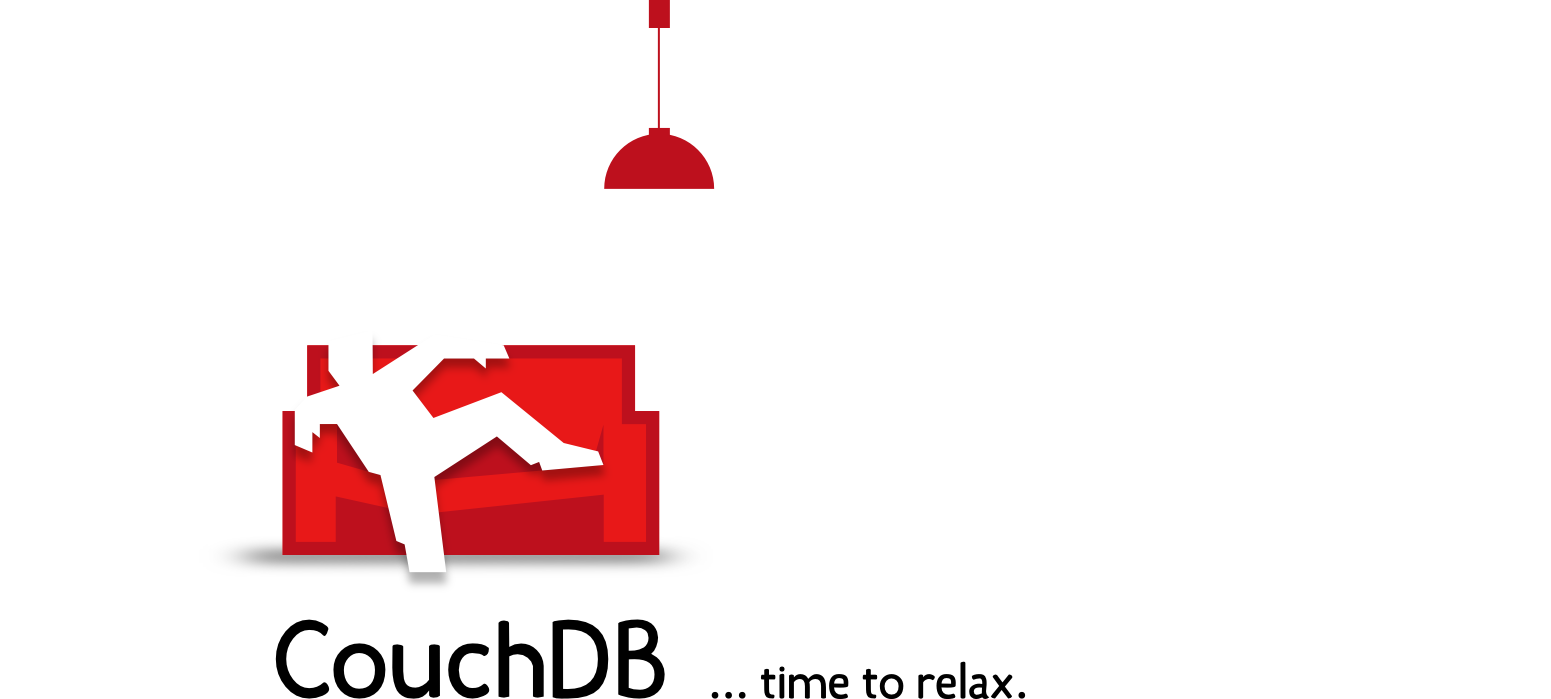
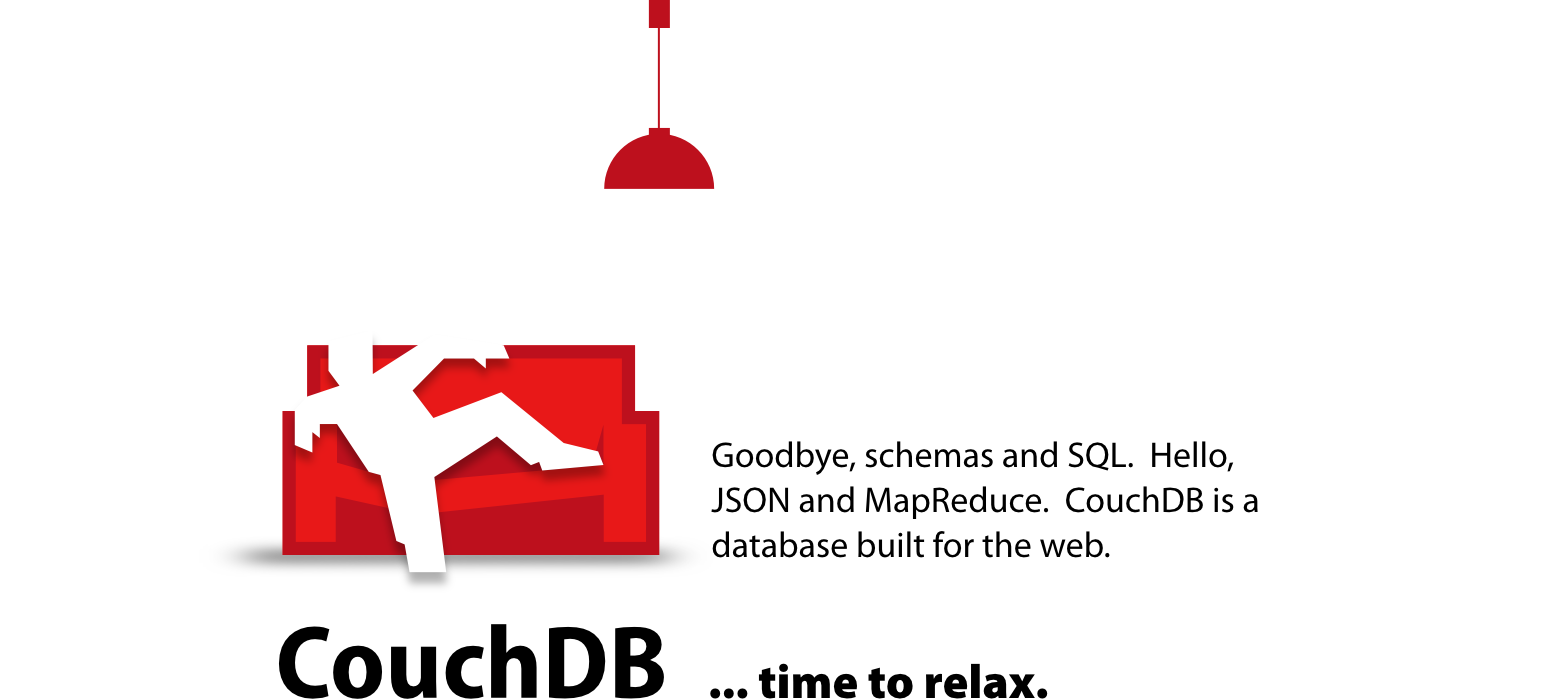
Added subtle fade backdrop.  Candela dropped in favour of rasterized Myriad, plus Arial webfont.  (Note: Myriad Bold should be replaced with Semibold; Inkscape doesn't play nice with my warez copy of Myriad.)

Changed region(s): [[0.4642, 0.6309, 0.8046, 0.8112], [0.1547, 0.8712, 0.4333, 1.0], [0.4642, 0.9313, 0.6809, 1.0]]

diff --git a/css/site.css b/css/site.css
@@ -1,7 +1,7 @@
 header, footer, nav, article, section, aside { display: block; }
 body {
   margin: 0; 
-  background-color: #9fd6d6; 
+  background-color: #ace8e8; 
   background-image: url("fade.png");
   background-repeat: repeat-x;
   font-size: 14px;
@@ -16,7 +16,7 @@ div#topslice {
   padding-bottom: 55px;
   }
 h1,h2,h3,h4,h5,h6 {
-  font-family: CandelaBook, Arial, sans-serif;
+  font-family: Myriad, "Myriad Pro", Arial, sans-serif; /* CandelaBook; */
   text-shadow: white 1px 1px 1px;
   }
 h3 { font-size: 20px; }
@@ -31,7 +31,7 @@ header blockquote {
   color: #506b6b;
   }
 header nav {
-  font-family: CandelaBold;
+  font-family: Myriad, "Myriad Pro", Arial, sans-serif; /* CandelaBold; */
   width: 480px;
   float: right;
   color: #506b6b;
@@ -51,11 +51,12 @@ header nav div ul {
 header nav a.active { border-bottom: 1px dotted black; } /* I don't like this */
 header nav div:hover > h3 { position: relative; top: -2px; text-shadow: white 1px 3px 1px; }
 header div#intro {
+  display: none;
   width: 555px;
   padding-left: 432px;
   padding-top: 404px;
   right: 0px;
-  font-family: CandelaBold, Arial, sans-serif;
+  font-family: Myriad, "Myriad Pro", Arial, sans-serif; /* CandelaBold; */
   font-size: 32px;
   line-height: 48px;
   }
@@ -66,7 +67,7 @@ div.colwrapper { width: 100%; overflow: auto; }
 div#filling {
   border: solid #91bcbc;
   border-width: 1px 0 1px 0;
-  background-color: #ace8e8; 
+  background-color: #c0eeee; 
   padding: 55px 0 55px 0;
   }
 div#filling div.colwrapper aside { 
@@ -81,7 +82,7 @@ div#bottomslice {
   }
 
 footer {
-  font-family: CandelaBook, Arial, sans-serif;
+  font-family: Myriad, "Myriad Pro", Arial, sans-serif; /* CandelaBook; */
   border-bottom: 3px solid #255757;
   padding: 21px 0 21px 0;
   }
